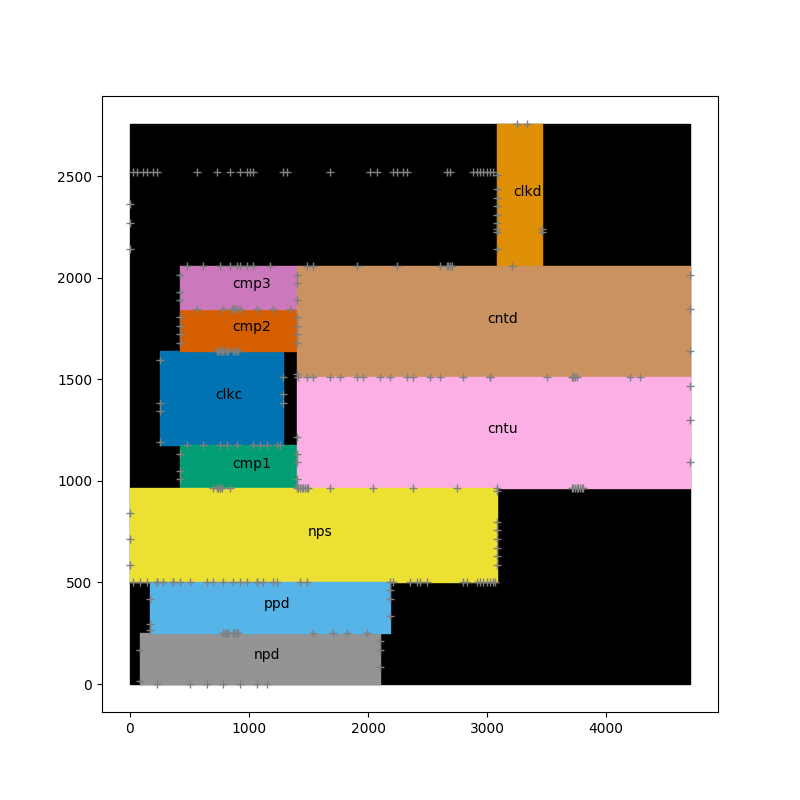
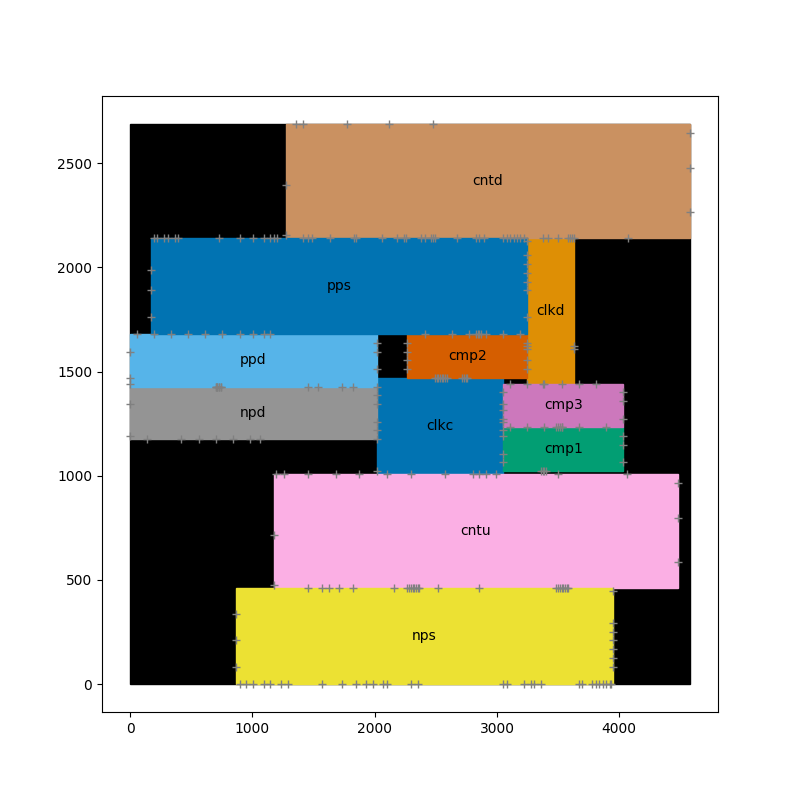
v1.0 - vlsi_clustering_network_force

diff --git a/plot_VLSI.py b/plot_VLSI.py
@@ -2,39 +2,33 @@ import matplotlib
 matplotlib.use('Agg')
 import matplotlib.pyplot as plt
 from matplotlib.patches import Rectangle
-import seaborn as sns;
+import seaborn as sns
 from VLSI_class import VLSI
 
 plt.rcParams['figure.figsize'] = [8, 8]
 plt.rcParams['figure.dpi'] = 100
 
-def plot_VLSI(I:VLSI, S:list[int]=None):
-
-  if S == None:
-    S = [i for i in range(len(I.block))]
-
+def plot_VLSI(I: VLSI, S: list[int] = None, instance = 'plot'):
+  
+  if S is None:
+    S = list(range(len(I.block)))
+    
+  # Geração da paleta de cores
   palette = sns.color_palette("colorblind", len(S))
   fig, ax = plt.subplots()
 
-  ax.add_patch(Rectangle(xy=(0,0), width=I.W, height=I.L, angle=0.0,  color="black", alpha=1))
-  value = 0
-  j = 0
-  for j in range(len(S)-1):
-    B = I.block[S[j]]
-    ax.add_patch(Rectangle(xy=(B.x,B.y), width=B.w, height=B.l, angle=0.0, alpha=1, color=palette[j]))
-    plt.annotate(text=B.ID, xy=(B.x + B.w//2 - 50, B.y + B.l//2 - 5))
-
-  for j in range(len(S)):
-    B = I.block[S[j]]
+  # Desenha o retângulo exterior representando o layout do VLSI
+  ax.add_patch(Rectangle(xy=(0, 0), width=I.W, height=I.L, angle=0.0, color="black", alpha=1))
+    
+  # Desenha cada bloco e seus terminais
+  for j in S:
+    B = I.block[j]
+    ax.add_patch(Rectangle(xy=(B.x, B.y), width=B.w, height=B.l, angle=0.0, alpha=1, color=palette[j]))
+    plt.annotate(text=B.ID, xy=(B.x + B.w / 2, B.y + B.l / 2), ha='center', va='center')
     for t in B.terminal:
       plt.plot(t.xpos(), t.ypos(), marker='+', color="gray")
 
+  # Ajuste de aspecto baseado nas dimensões do VLSI
+  ax.set_aspect(I.W / I.L)
 
-  #ax.autoscale()
-  ratio = 1.0
-  x_left, x_right = ax.get_xlim()
-  y_low, y_high = ax.get_ylim()
-  ax.set_aspect(abs((x_right-x_left)/(y_low-y_high))*ratio)
-
-  plt.show()
-  plt.savefig('plot.png')
+  plt.savefig(f'/home/cplex/{instance}_{int(I.hpwl_value)}.png')

diff --git a/VLSI_Clustering.py b/VLSI_Clustering.py
@@ -15,6 +15,36 @@ class VLSIClustering:
         self.k = k
         self.model = None
         self.result = None
+    
+    def build_minimax_cg_vlsi_model(self, min_group_size_factor=1, max_group_size_factor=1.5):
+        """
+        mmcg: Minimun and Maximum Cardinality Grouping
+        """
+        n_blocks = len(self.I.block) - 1        
+        self.model = ConcreteModel()
+        self.model.x = Var(range(n_blocks), range(n_blocks), within=Binary)
+
+        mu, sigma = self._mu_sigma(self._network_count())
+
+        self.model.obj = Objective(expr=sum(self.model.x[i, j] * ((self._network_count()[i][j] - mu) / sigma)
+                                for i in range(n_blocks) for j in range(i + 1, n_blocks)),
+                        sense=maximize)
+
+        self.model.constraints = ConstraintList()   
+        # Adicionando restrições de tamanho mínimo e máximo para os grupos
+        for k in range(2, n_blocks):
+            for j in range(1, k):
+                for i in range(j):
+                    self.model.constraints.add(self.model.x[i, k] + 1 >= self.model.x[i, j] + self.model.x[j, k])
+
+        min_group_size = int(self.k * min_group_size_factor)
+        max_group_size = int(self.k * max_group_size_factor)
+        print(f"min_group_size_factor: {min_group_size}, max_group_size_factor {max_group_size}")
+
+        for i in range(n_blocks):
+            self.model.constraints.add(sum(self.model.x[i, j] for j in range(n_blocks) if i != j) >= min_group_size)
+            self.model.constraints.add(sum(self.model.x[i, j] for j in range(n_blocks) if i != j) <= max_group_size)
+
 
     def build_mcg_vlsi_model(self):
         """

diff --git a/main.py b/main.py
@@ -8,7 +8,8 @@ from plot_VLSI import plot_VLSI
 
 def main():
     # Ler o arquivo YAL
-    I = read("yal_instances/ami49.yal")
+    instance = 'hp'
+    I = read(f"yal_instances/{instance}.yal")
 
     # Calcular número de blocos
     num_blocks = len(I.block)
@@ -16,10 +17,12 @@ def main():
 
     # Calcular tamanho do cluster
     k = int(math.sqrt(num_blocks))
+    print(f'k: {k}')
 
     # Realizar clustering
     clustering = VLSIClustering(I, k)
-    clustering.build_mcg_vlsi_model()
+    #clustering.build_mcg_vlsi_model()
+    clustering.build_minimax_cg_vlsi_model()
     clustering.solve_cplex()
 
     # Obter grupos de blocos
@@ -44,22 +47,8 @@ def main():
 #        print(R.V[i])
 #
 #    # Plotar o layout VLSI
-#    plot_VLSI(I, range(len(I.block)-1))
-
+    plot_VLSI(I, range(len(I.block)-1), instance)
+    print(f"Grupos para k = {k}:{[i[:-1] for i in groups]}")
+    
 if __name__ == "__main__":
     main()
-
-
-"""
-import random
-from sliding_window import sliding_window
-
-I = read("yal_instances/hp.yal")
-print(f"Blocks = {len(I.block)}, Nets = {len(I.network)}")
-n_blocks = len(I.block)-1
-print(f"n_blocks: {n_blocks}")
-order = random.sample(range(n_blocks), n_blocks)
-print(f"order: {order}")
-sliding_window(I, 1, order)
-plot_VLSI(I, order)
-"""

diff --git a/Raplacer.py b/Raplacer.py
@@ -18,11 +18,11 @@ class Replacer:
     print(self.S)
     self.model:pyo.Model = None
 
-  def placement(self):
+  def placement(self, tee = False):
     """Given an instance and a (possibly partial) sequence pair,
     calculates the ideal placement and measurement of the blocks"""
     self.build_model()
-    return self.solve_model()
+    return self.solve_model(tee=tee)
 
   def build_model(self):
     """Builds the IP model to solve the placement problem"""
@@ -110,12 +110,9 @@ class Replacer:
     self.model.obj = pyo.Objective(rule=obj_rule, sense=pyo.minimize)
 
 
-  def solve_model(self):
-    #opt = SolverFactory('glpk', executable='/usr/bin/glpsol')
-    #opt = SolverFactory('cbc', executable='/usr/bin/cbc')
-    #opt = SolverFactory('cplex', executable=os.environ.get('CPLEX_EXECUTABLE'))
+  def solve_model(self, tee = False):
     opt = SolverFactory('cplex_direct')
-    results = opt.solve(self.model)
+    results = opt.solve(self.model, tee=tee)
     #self.model.solutions.store_to(results)
 
     print(results)
@@ -149,5 +146,5 @@ class Replacer:
     #    # Something else is wrong
     #    print("Solver Status: ",  result.solver.status)
 
-
+    print(f"hpwl_value: {self.I.hpwl_value}")
     return self.I

diff --git a/README.md b/README.md
@@ -31,3 +31,7 @@ docker-compose stop
 
 ## Para *iniciar* os containers novamente sem reconstruir:
 docker-compose start
+
+
+# ARTIGO LETÍCIA LEITE
+https://repositorio.unesp.br/server/api/core/bitstreams/ca6d9ea0-88b8-4653-a615-bee729fb2684/content
